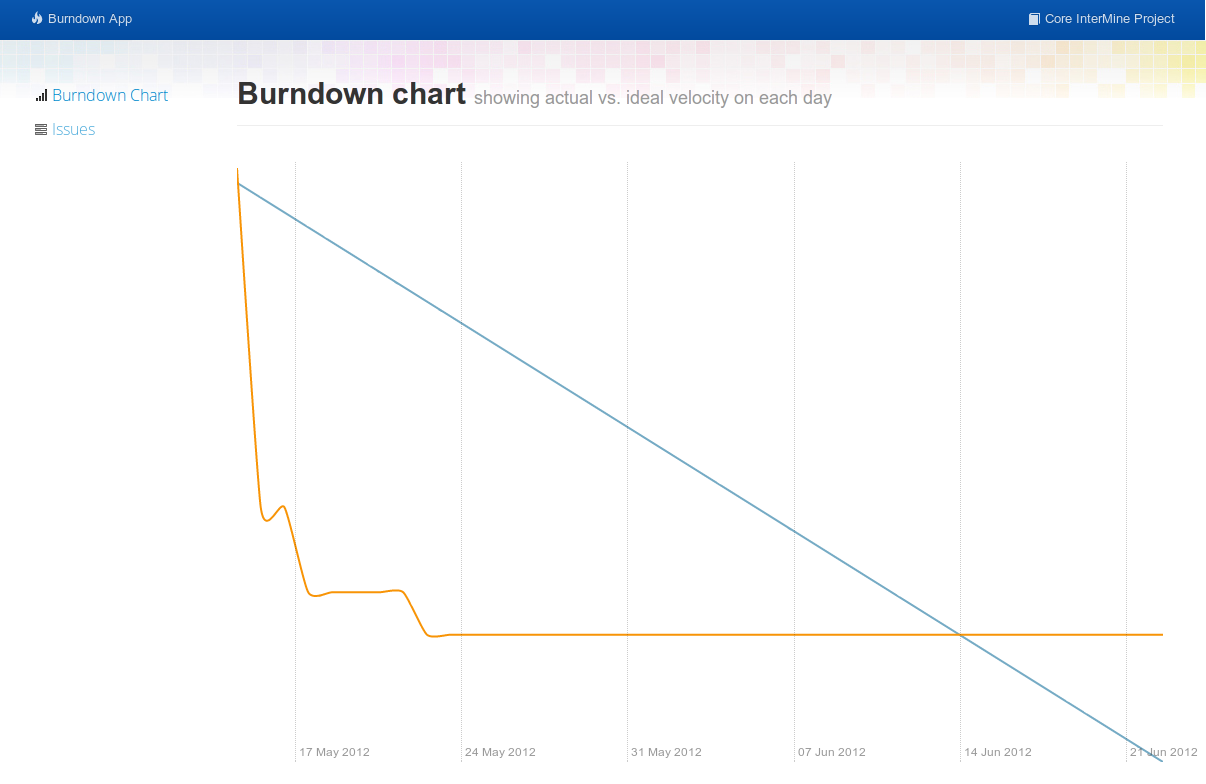
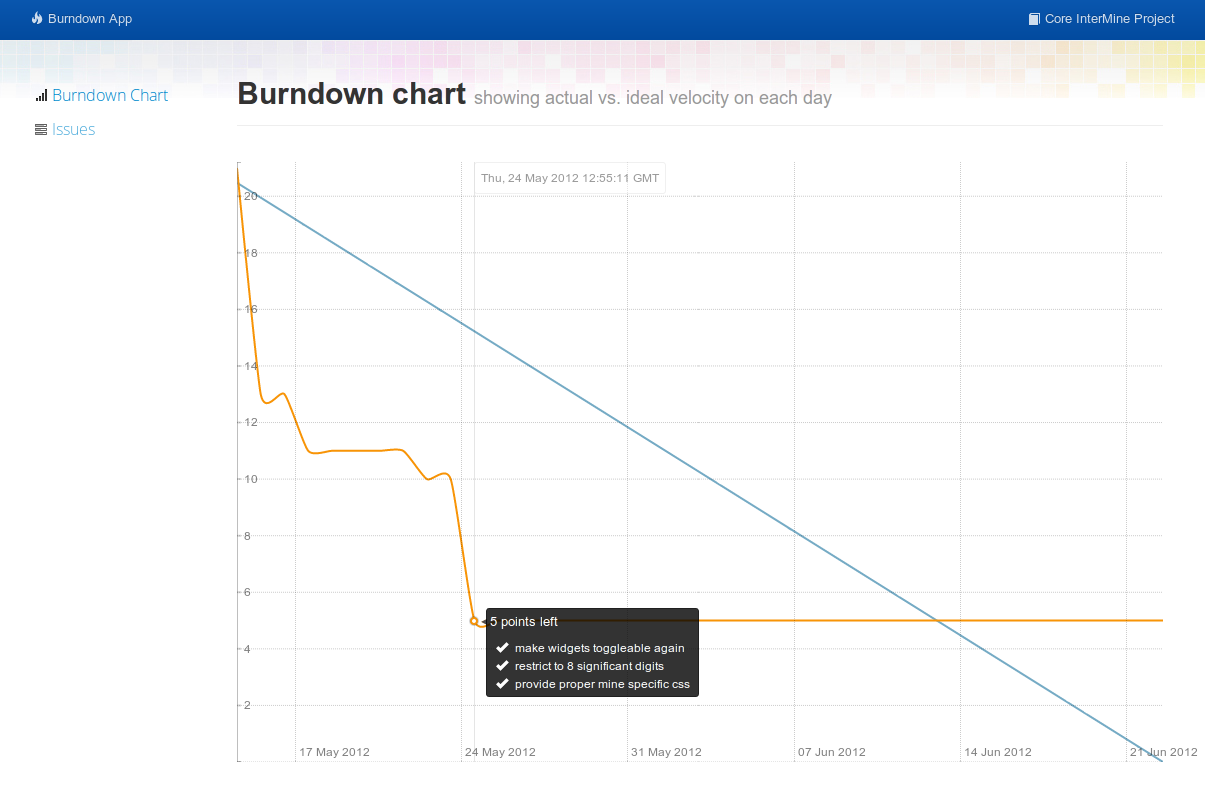
show issues closed on that day onhover, add y axis, close #2

diff --git a/public/css/rickshaw.css b/public/css/rickshaw.css
@@ -71,6 +71,10 @@
 .rickshaw_graph .detail .dot.active {
 	display: block;
 }
+.rickshaw_graph .detail ul {
+	list-style-type: none;
+	margin: 0 5px;
+}
 
 /* graph */
 
